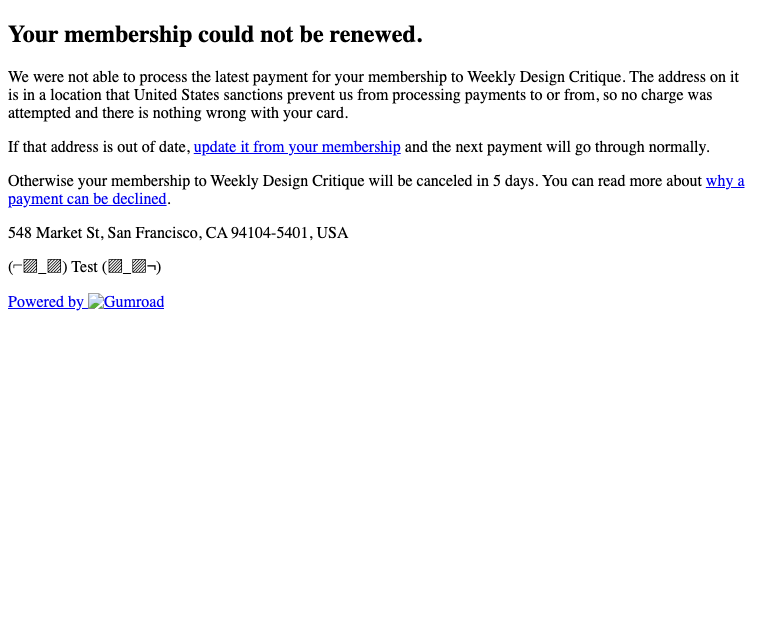
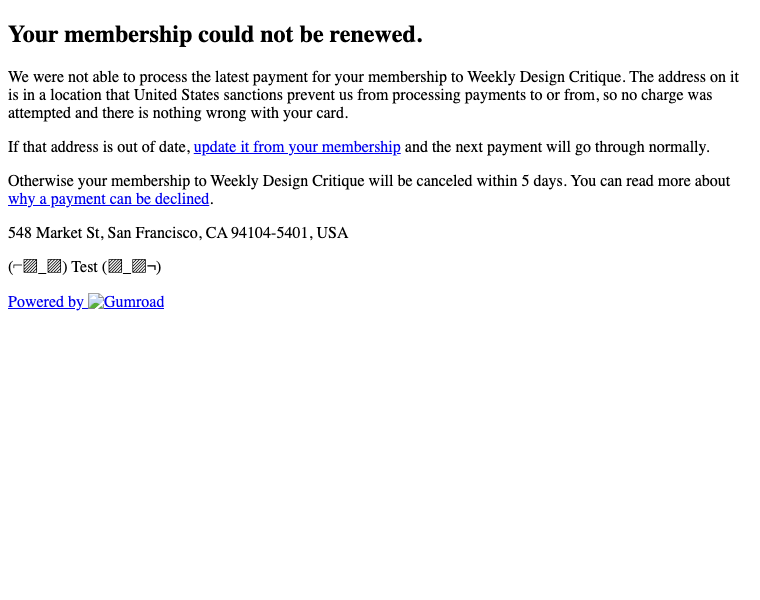
Stop the retry this email invites from re-sending it
The email points the subscriber at Manage subscription, but its link carried no
`declined` param, so `UpdaterService#charge_user!` ran with
`from_failed_charge_email: false` and `process_purchase!` mailed again on every
still-blocked attempt — each copy restating a 5-day deadline anchored to the end
of the paid period, not to when it was sent. `@declined` is what the card emails
set for the same reason.

Also: "within 5 days" rather than "in 5 days", since `terminate_by` is anchored
to the paid period and a late attempt makes the flat form overstate. And the
Minitest case now asserts UnsubscribeAndFailWorker is still scheduled, since
that worker is what keeps the deadline the copy promises.

Changed region(s): [[0.0, 0.03, 0.9987, 0.54]]

diff --git a/test/models/subscription_test.rb b/test/models/subscription_test.rb
@@ -1719,13 +1719,15 @@ class SubscriptionTest < ActiveSupport::TestCase
     assert_equal PurchaseErrorCode::BLOCKED_SANCTIONED_LOCATION, purchase.error_code
   end
 
-  test "#charge! blocked by sanctions screening does not schedule the card-declined reminder" do
+  test "#charge! blocked by sanctions screening enqueues the location email and the termination worker, not the card-declined reminder" do
     sanctioned_renewal_setup
 
     @subscription.charge!
 
     assert_enqueued_email(CustomerLowPriorityMailer, :subscription_charge_blocked_location, args: [@subscription.id])
     refute_sidekiq_enqueued(ChargeDeclinedReminderWorker, args: [@subscription.id])
+    # The email promises cancellation within 5 days, and this worker is what keeps that promise.
+    assert_sidekiq_enqueued(UnsubscribeAndFailWorker, args: [@subscription.id])
   end
 
   # --- #charge! double charged -----------------------------------------------

diff --git a/spec/mailers/customer_low_priority_mailer_spec.rb b/spec/mailers/customer_low_priority_mailer_spec.rb
@@ -340,6 +340,15 @@ describe CustomerLowPriorityMailer do
 
         expect(body).to include "token=#{subscription.reload.token}"
       end
+
+      it "marks the manage link as coming from a failure email so the retry it invites does not re-send it" do
+        subscription = create(:subscription, link: create(:product))
+        create(:purchase, is_original_subscription_purchase: true, link: subscription.link, subscription:)
+
+        body = CustomerLowPriorityMailer.subscription_charge_blocked_location(subscription.id).body.encoded
+
+        expect(body).to include "declined=true"
+      end
     end
 
     context "installment plans" do

diff --git a/app/mailers/customer_low_priority_mailer.rb b/app/mailers/customer_low_priority_mailer.rb
@@ -120,6 +120,9 @@ class CustomerLowPriorityMailer < ApplicationMailer
 
   def subscription_charge_blocked_location(subscription_id)
     @subscription = Subscription.find(subscription_id)
+    # Marks the manage link as coming from a failure email, which is what makes the retry it invites
+    # charge without sending this email again on every still-blocked attempt.
+    @declined = true
     @subject =
       if @subscription.is_installment_plan?
         "Your installment payment could not be processed."
